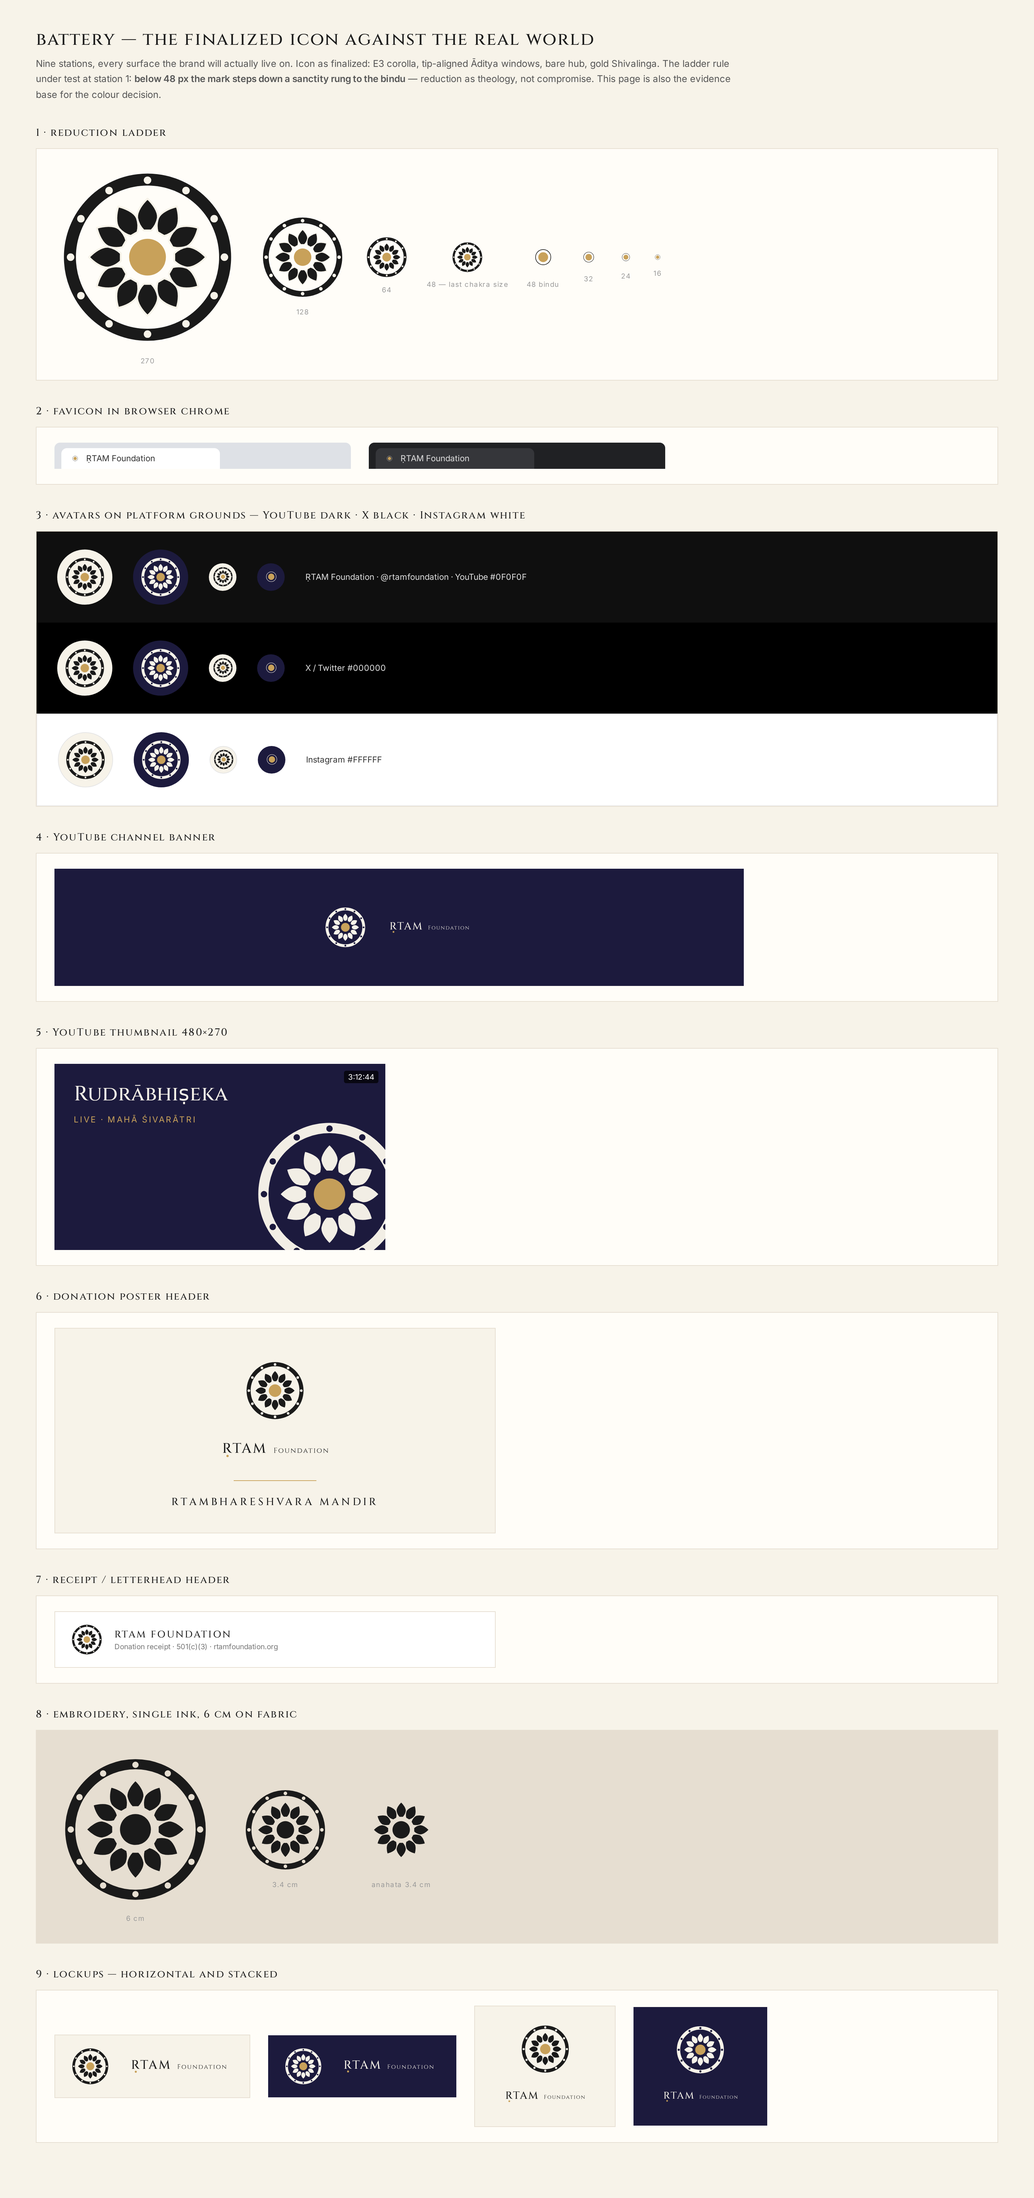
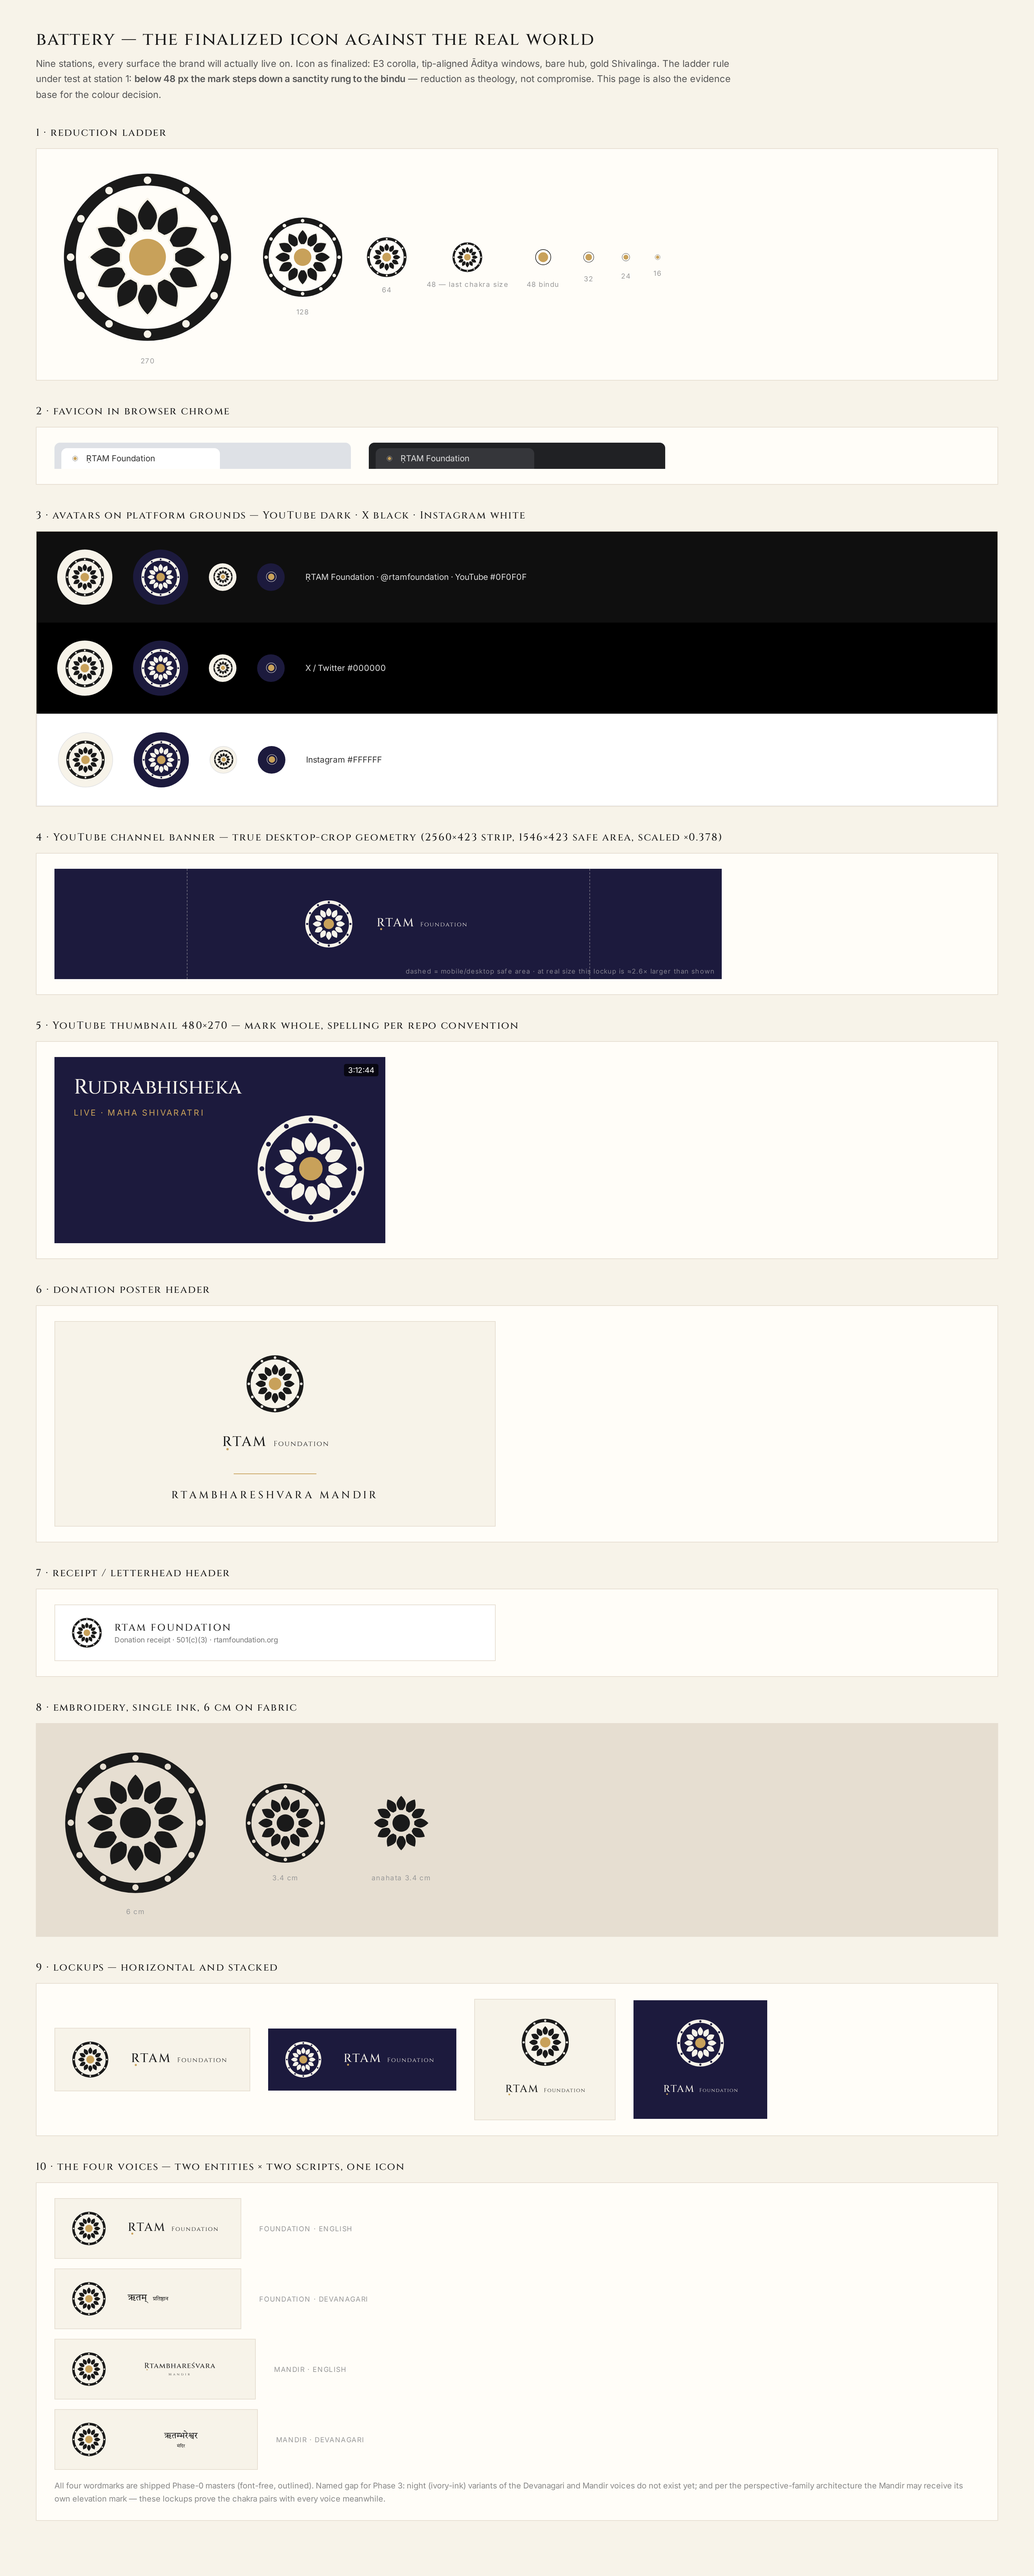
P2e: battery v2 — founder fixes + the four-voices station
Founder review of the battery: overall pass, three items —

1. Banner scale question: rebuilt station 4 at TRUE YouTube geometry —
   the desktop crop of 2560x1440 art is a 2560x423 strip with a
   1546x423 safe area, simulated at x0.378 with the safe area dashed;
   at real size the lockup renders ~2.6x larger than the sim.
2. Thumbnail: mark now fully inside the frame (was bleeding off the
   corner); spelling per repo convention: Rudrabhisheka, MAHA
   SHIVARATRI (matches the Rtambhareshvara romanization style).
3. NEW station 10 — the four voices: the icon locked up with
   Foundation EN (sacred RTAM-dot), Foundation Devanagari
   (pratishthan), Mandir EN (diacritic), Mandir Devanagari. All four
   are shipped Phase-0 outlined masters. Named Phase-3 gaps: night
   variants of the Devanagari/Mandir voices; possible dedicated
   elevation mark for the Mandir entity per the perspective-family
   architecture.

diff --git a/brand/explorations/exp/rta-chakra/battery/gallery.html b/brand/explorations/exp/rta-chakra/battery/gallery.html
@@ -38,16 +38,24 @@
   .plat.yt .who, .plat.x .who { color:#ddd; }
   .plat.ig .who { color:#333; }
 
-  .banner { width:1000px; height:170px; background:var(--rtam-indigo); display:flex;
-            align-items:center; justify-content:center; gap:22px; }
+  .banner { width:968px; height:160px; background:var(--rtam-indigo); position:relative;
+            display:flex; align-items:center; justify-content:center; }
+  .banner .safe { width:585px; height:160px; border-left:1px dashed rgba(247,243,233,.35);
+                  border-right:1px dashed rgba(247,243,233,.35); display:flex;
+                  align-items:center; justify-content:center; gap:20px; }
+  .banner .hint { position:absolute; right:10px; bottom:6px; font-size:9.5px; color:rgba(247,243,233,.45);
+                  letter-spacing:.06em; }
   .thumb { width:480px; height:270px; background:var(--rtam-indigo); position:relative;
            overflow:hidden; padding:26px 28px; }
   .thumb .t1 { font-family:Cinzel,serif; font-size:30px; color:var(--rtam-ivory); line-height:1.25;
                width:250px; }
   .thumb .t2 { font-size:12px; letter-spacing:.18em; color:var(--rtam-gold); margin-top:10px; }
-  .thumb img.mark { position:absolute; right:-34px; bottom:-34px; width:230px; height:230px; opacity:.98; }
+  .thumb img.mark { position:absolute; right:22px; bottom:22px; width:172px; height:172px; }
   .thumb .chip { position:absolute; right:10px; top:10px; background:rgba(0,0,0,.7); color:#fff;
                  font-size:11px; padding:2px 6px; border-radius:3px; }
+  .voices { display:flex; flex-direction:column; gap:14px; }
+  .voices .lockup { background:var(--rtam-ivory); border:1px solid var(--rtam-sandstone); }
+  .voices .tag { font-size:10px; color:#999; letter-spacing:.08em; width:200px; }
 
   .poster { width:640px; background:var(--rtam-ivory); border:1px solid var(--rtam-sandstone);
             text-align:center; padding:44px 30px 34px; }
@@ -119,16 +127,21 @@
     </div>
   </div>
 
-  <h2>4 · YouTube channel banner</h2>
-  <div class="st"><div class="banner">
-    <img src="candidates/chakra-night.svg" width="64" height="64">
-    <img src="../../../../dist/outlined/logos/rtam-wordmark-white-golddot.svg" style="height:30px">
-  </div></div>
+  <h2>4 · YouTube channel banner — true desktop-crop geometry (2560&times;423 strip, 1546&times;423 safe area, scaled &times;0.378)</h2>
+  <div class="st">
+    <div class="banner">
+      <div class="safe">
+        <img src="candidates/chakra-night.svg" width="76" height="76">
+        <img src="../../../../dist/outlined/logos/rtam-wordmark-white-golddot.svg" style="height:34px">
+      </div>
+      <span class="hint">dashed = mobile/desktop safe area &middot; at real size this lockup is &asymp;2.6&times; larger than shown</span>
+    </div>
+  </div>
 
-  <h2>5 · YouTube thumbnail 480&times;270</h2>
+  <h2>5 · YouTube thumbnail 480&times;270 — mark whole, spelling per repo convention</h2>
   <div class="st"><div class="thumb">
-    <div class="t1">Rudr&#257;bhi&#7779;eka</div>
-    <div class="t2">LIVE &middot; MAH&#256; &#346;IVAR&#256;TRI</div>
+    <div class="t1">Rudrabhisheka</div>
+    <div class="t2">LIVE &middot; MAHA SHIVARATRI</div>
     <img class="mark" src="candidates/chakra-night.svg">
     <span class="chip">3:12:44</span>
   </div></div>
@@ -176,5 +189,42 @@
       <img src="../../../../dist/outlined/logos/rtam-wordmark-white-golddot.svg" style="height:28px; margin-top:12px;">
     </div>
   </div></div>
+
+  <h2>10 · the four voices — two entities &times; two scripts, one icon</h2>
+  <div class="st"><div class="voices">
+    <div class="row">
+      <div class="lockup">
+        <img src="candidates/chakra-light.svg" width="54" height="54">
+        <img src="../../../../dist/outlined/logos/rtam-wordmark-sacred-RTAM-dot.svg" style="height:34px">
+      </div>
+      <span class="tag">FOUNDATION &middot; ENGLISH</span>
+    </div>
+    <div class="row">
+      <div class="lockup">
+        <img src="candidates/chakra-light.svg" width="54" height="54">
+        <img src="../../../../dist/outlined/logos/rtam-wordmark-devanagari-pratishthan.svg" style="height:34px">
+      </div>
+      <span class="tag">FOUNDATION &middot; DEVANAGARI</span>
+    </div>
+    <div class="row">
+      <div class="lockup">
+        <img src="candidates/chakra-light.svg" width="54" height="54">
+        <img src="../../../../dist/outlined/logos/rtam-temple-wordmark-diacritic.svg" style="height:42px">
+      </div>
+      <span class="tag">MANDIR &middot; ENGLISH</span>
+    </div>
+    <div class="row">
+      <div class="lockup">
+        <img src="candidates/chakra-light.svg" width="54" height="54">
+        <img src="../../../../dist/outlined/logos/rtam-temple-wordmark-devanagari.svg" style="height:46px">
+      </div>
+      <span class="tag">MANDIR &middot; DEVANAGARI</span>
+    </div>
+  </div>
+  <p style="font-size:11.5px; color:#888; margin:14px 0 0; line-height:1.6;">All four wordmarks are shipped
+  Phase-0 masters (font-free, outlined). Named gap for Phase&nbsp;3: night (ivory-ink) variants of the
+  Devanagari and Mandir voices do not exist yet; and per the perspective-family architecture the Mandir may
+  receive its own elevation mark — these lockups prove the chakra pairs with every voice meanwhile.</p>
+  </div>
 </body>
 </html>

diff --git a/brand/explorations/exp/rta-chakra/battery/build.py b/brand/explorations/exp/rta-chakra/battery/build.py
@@ -14,13 +14,23 @@ Stations:
   3  circle avatars on platform grounds: YouTube dark #0F0F0F,
      X black #000000, Instagram white #FFFFFF — ivory and indigo
      discs, 80 px + 40 px
-  4  YouTube channel banner (indigo, night lockup)
-  5  YouTube thumbnail 480x270 (indigo, ivory display type)
+  4  YouTube channel banner at TRUE proportions: desktop crop of the
+     2560x1440 art is a 2560x423 strip with a 1546x423 safe area —
+     simulated to scale with the safe area outlined (founder asked
+     whether the first sim's small lockup would scale: yes, and this
+     station now shows the real geometry)
+  5  YouTube thumbnail 480x270 (indigo, ivory display type; mark fully
+     inside the frame, spelling per repo convention — founder fixes)
   6  donation poster header (ivory, stacked lockup, gold rule)
   7  receipt / letterhead header (quiet, small mark, charcoal text)
   8  six-centimetre embroidery simulation, single ink on sandstone
      (227 px ~ 6 cm at 96 dpi) + 128 px
   9  lockups: horizontal + stacked, light + night
+ 10  the four voices — two entities x two scripts: the icon locked up
+     with Foundation EN, Foundation Devanagari (pratishthan), Mandir
+     EN (diacritic), Mandir Devanagari. All four wordmarks are shipped
+     Phase-0 masters; night variants of the Devanagari/temple voices
+     do not exist yet (named Phase-3 gap).
 
 Marks are regenerated here from the finalized geometry (single source
 of truth for the study; Phase 3 moves it into brand.json).
@@ -163,16 +173,24 @@ def gallery():
   .plat.yt .who, .plat.x .who {{ color:#ddd; }}
   .plat.ig .who {{ color:#333; }}
 
-  .banner {{ width:1000px; height:170px; background:var(--rtam-indigo); display:flex;
-            align-items:center; justify-content:center; gap:22px; }}
+  .banner {{ width:968px; height:160px; background:var(--rtam-indigo); position:relative;
+            display:flex; align-items:center; justify-content:center; }}
+  .banner .safe {{ width:585px; height:160px; border-left:1px dashed rgba(247,243,233,.35);
+                  border-right:1px dashed rgba(247,243,233,.35); display:flex;
+                  align-items:center; justify-content:center; gap:20px; }}
+  .banner .hint {{ position:absolute; right:10px; bottom:6px; font-size:9.5px; color:rgba(247,243,233,.45);
+                  letter-spacing:.06em; }}
   .thumb {{ width:480px; height:270px; background:var(--rtam-indigo); position:relative;
            overflow:hidden; padding:26px 28px; }}
   .thumb .t1 {{ font-family:Cinzel,serif; font-size:30px; color:var(--rtam-ivory); line-height:1.25;
                width:250px; }}
   .thumb .t2 {{ font-size:12px; letter-spacing:.18em; color:var(--rtam-gold); margin-top:10px; }}
-  .thumb img.mark {{ position:absolute; right:-34px; bottom:-34px; width:230px; height:230px; opacity:.98; }}
+  .thumb img.mark {{ position:absolute; right:22px; bottom:22px; width:172px; height:172px; }}
   .thumb .chip {{ position:absolute; right:10px; top:10px; background:rgba(0,0,0,.7); color:#fff;
                  font-size:11px; padding:2px 6px; border-radius:3px; }}
+  .voices {{ display:flex; flex-direction:column; gap:14px; }}
+  .voices .lockup {{ background:var(--rtam-ivory); border:1px solid var(--rtam-sandstone); }}
+  .voices .tag {{ font-size:10px; color:#999; letter-spacing:.08em; width:200px; }}
 
   .poster {{ width:640px; background:var(--rtam-ivory); border:1px solid var(--rtam-sandstone);
             text-align:center; padding:44px 30px 34px; }}
@@ -244,16 +262,21 @@ def gallery():
     </div>
   </div>
 
-  <h2>4 · YouTube channel banner</h2>
-  <div class="st"><div class="banner">
-    <img src="candidates/chakra-night.svg" width="64" height="64">
-    <img src="{dist}/rtam-wordmark-white-golddot.svg" style="height:30px">
-  </div></div>
+  <h2>4 · YouTube channel banner — true desktop-crop geometry (2560&times;423 strip, 1546&times;423 safe area, scaled &times;0.378)</h2>
+  <div class="st">
+    <div class="banner">
+      <div class="safe">
+        <img src="candidates/chakra-night.svg" width="76" height="76">
+        <img src="{dist}/rtam-wordmark-white-golddot.svg" style="height:34px">
+      </div>
+      <span class="hint">dashed = mobile/desktop safe area &middot; at real size this lockup is &asymp;2.6&times; larger than shown</span>
+    </div>
+  </div>
 
-  <h2>5 · YouTube thumbnail 480&times;270</h2>
+  <h2>5 · YouTube thumbnail 480&times;270 — mark whole, spelling per repo convention</h2>
   <div class="st"><div class="thumb">
-    <div class="t1">Rudr&#257;bhi&#7779;eka</div>
-    <div class="t2">LIVE &middot; MAH&#256; &#346;IVAR&#256;TRI</div>
+    <div class="t1">Rudrabhisheka</div>
+    <div class="t2">LIVE &middot; MAHA SHIVARATRI</div>
     <img class="mark" src="candidates/chakra-night.svg">
     <span class="chip">3:12:44</span>
   </div></div>
@@ -301,6 +324,43 @@ def gallery():
       <img src="{dist}/rtam-wordmark-white-golddot.svg" style="height:28px; margin-top:12px;">
     </div>
   </div></div>
+
+  <h2>10 · the four voices — two entities &times; two scripts, one icon</h2>
+  <div class="st"><div class="voices">
+    <div class="row">
+      <div class="lockup">
+        <img src="candidates/chakra-light.svg" width="54" height="54">
+        <img src="{dist}/rtam-wordmark-sacred-RTAM-dot.svg" style="height:34px">
+      </div>
+      <span class="tag">FOUNDATION &middot; ENGLISH</span>
+    </div>
+    <div class="row">
+      <div class="lockup">
+        <img src="candidates/chakra-light.svg" width="54" height="54">
+        <img src="{dist}/rtam-wordmark-devanagari-pratishthan.svg" style="height:34px">
+      </div>
+      <span class="tag">FOUNDATION &middot; DEVANAGARI</span>
+    </div>
+    <div class="row">
+      <div class="lockup">
+        <img src="candidates/chakra-light.svg" width="54" height="54">
+        <img src="{dist}/rtam-temple-wordmark-diacritic.svg" style="height:42px">
+      </div>
+      <span class="tag">MANDIR &middot; ENGLISH</span>
+    </div>
+    <div class="row">
+      <div class="lockup">
+        <img src="candidates/chakra-light.svg" width="54" height="54">
+        <img src="{dist}/rtam-temple-wordmark-devanagari.svg" style="height:46px">
+      </div>
+      <span class="tag">MANDIR &middot; DEVANAGARI</span>
+    </div>
+  </div>
+  <p style="font-size:11.5px; color:#888; margin:14px 0 0; line-height:1.6;">All four wordmarks are shipped
+  Phase-0 masters (font-free, outlined). Named gap for Phase&nbsp;3: night (ivory-ink) variants of the
+  Devanagari and Mandir voices do not exist yet; and per the perspective-family architecture the Mandir may
+  receive its own elevation mark — these lockups prove the chakra pairs with every voice meanwhile.</p>
+  </div>
 </body>
 </html>
 """
